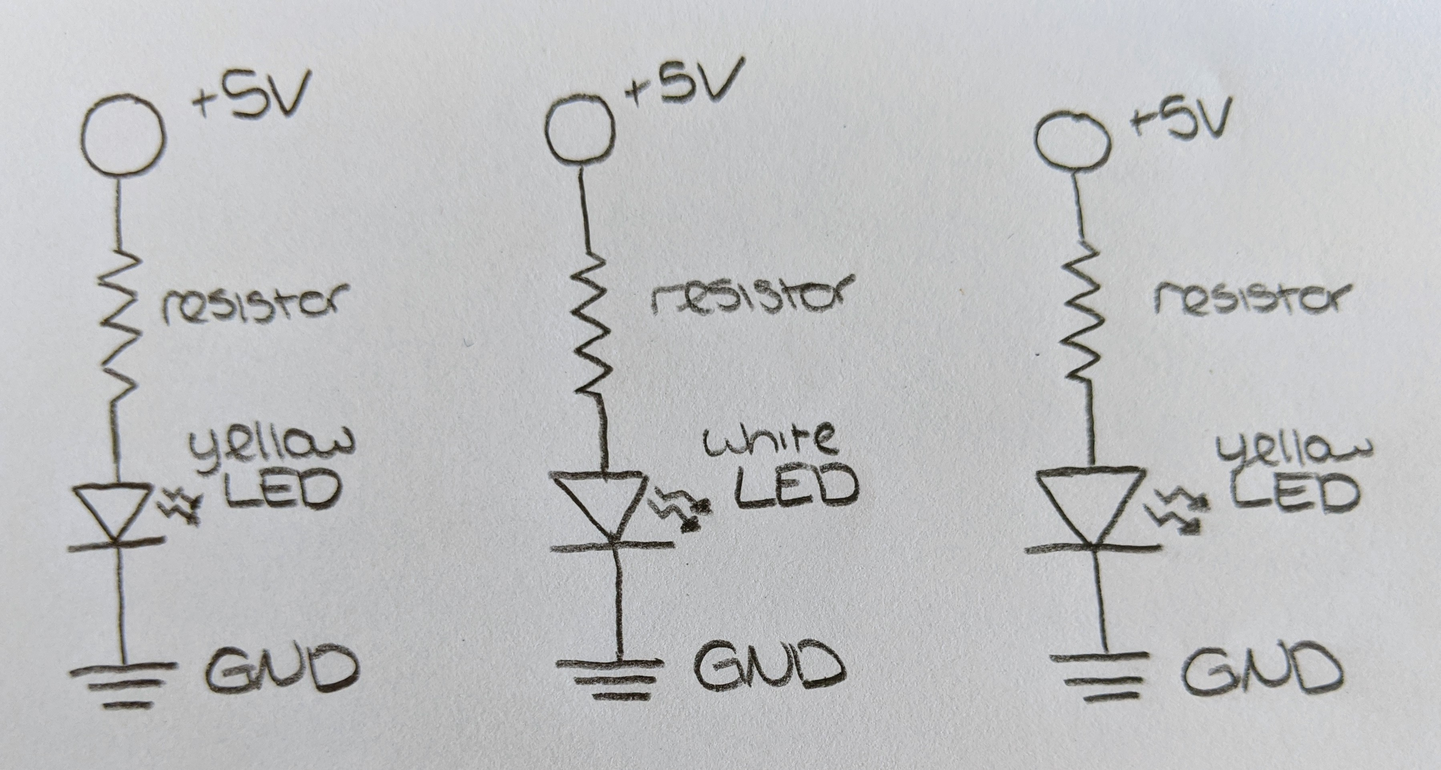
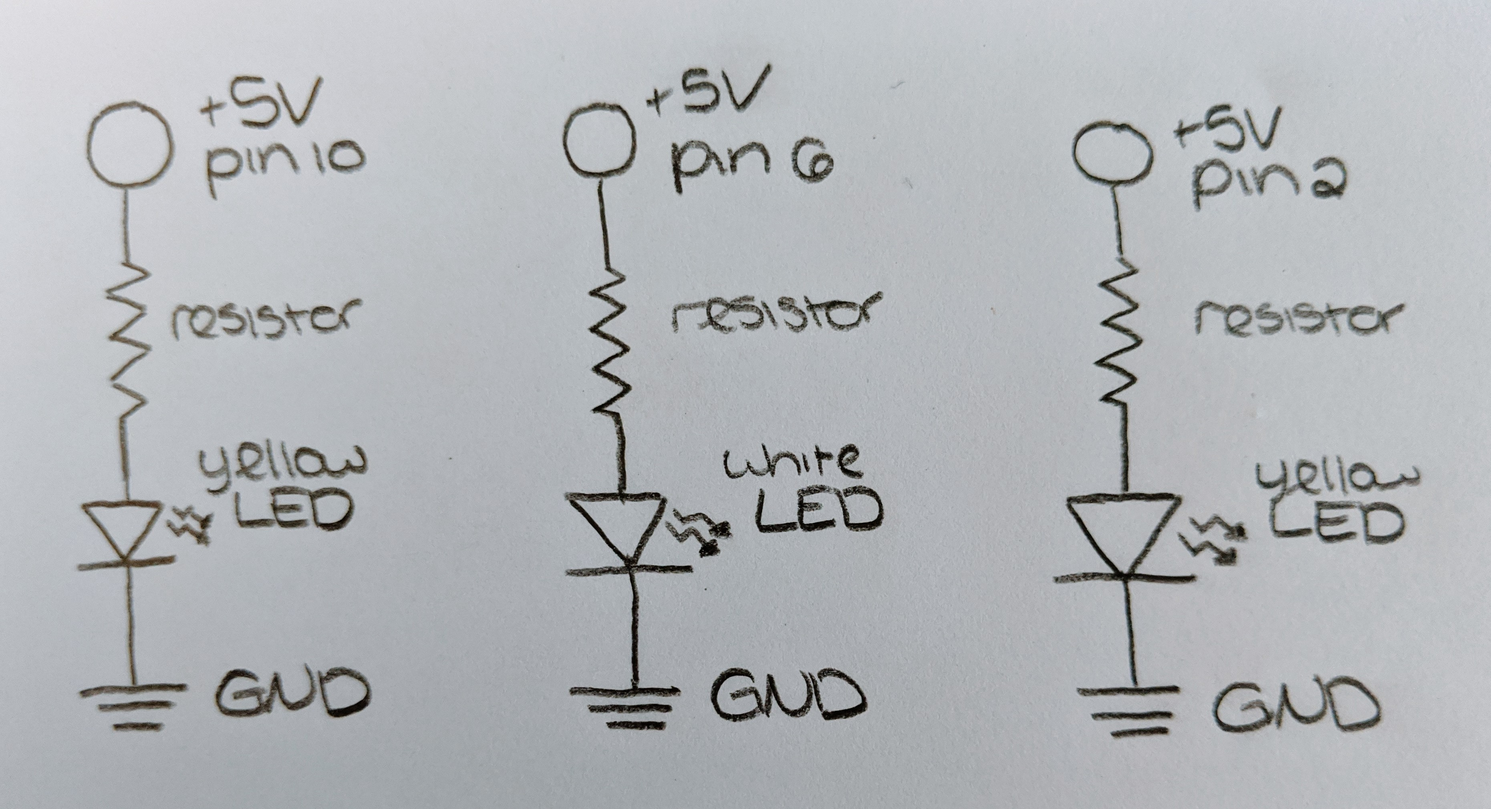
finished...?

diff --git a/assignment1.html b/assignment1.html
@@ -24,7 +24,8 @@
           <figure>
             <img src="A1_Blink/schematic.jpg" alt="schematic"/>
             <figcaption>
-              This is my schematic diagram and it's pretty cool huh
+              This is the schematic of my circuit. Each LED is labeled with its voltage, pin,
+              resistor, LED color, and ground. 
             </figcaption>
           </figure>
         </section>
@@ -117,9 +118,13 @@
               This is my circuit, complete with three LED's, three resistors, and multiple wires
               that connect to both ground and power. Using the equation V=IR, I determined the
               correct magnitude for the resistors. The voltage coming from the computer is 5V,
-              and the LED's need 20mA to run. This means 5V=20mA * R. 20mA is .02A, so 5V=.02A * R.
-              Dividing both sides by .02A, you get 250 = R. Although not exactly 250, I used the
-              220 resistors because they were the closest.
+              and the LED's need 20mA to run. For the yellow LED's, this means 5V-1.8V=20mA * R.
+              20mA is .02A, so 3.2V=.02A * R. Dividing both sides by .02A, you get 160 = R.
+              Although not exactly 160, I used the 220 ohm resistors because they were the closest and
+              it's better to supply less current than more current. The white LED takes more voltage,
+              so the math changes to 5V-3.3V=20mA * R. Solving the equation gets 85 ohms. I chose to
+              use the 100 ohm resistors because they created a current of 17mA, which was close
+              enough to 20 to still power the LED but not enough to blow up the light.
             </figcaption>
           </figure>
           <figure>
